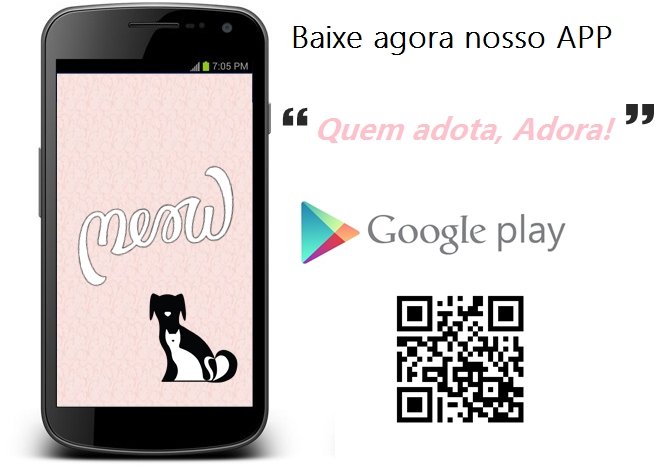
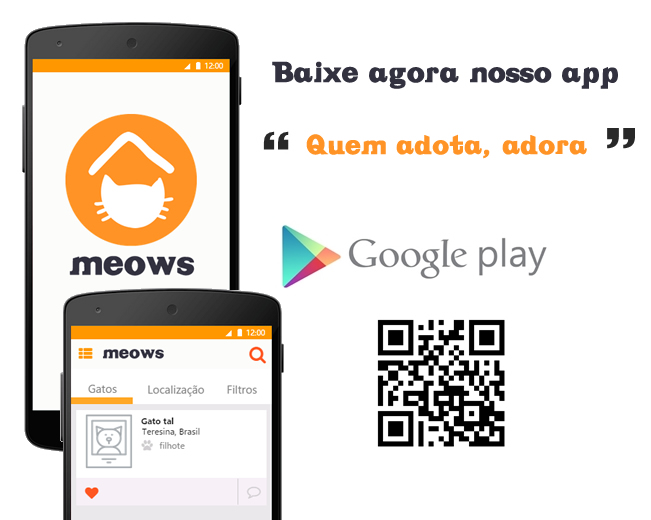
alterações e adiçao de imagens

diff --git a/Cadastro.html b/Cadastro.html
@@ -129,7 +129,7 @@
          <img src="img/cadastro.jpg" alt="">
           </div>
 		  <div class="aviso">
-		  <p><h3> Para cadastrar seus Animais Baixe o APP Weow!! </h3> </p>
+		  <p><h3> Para cadastrar seus Animais Baixe o APP Meow!! </h3> </p>
            </div>
           </div>
           

diff --git a/css/main.css b/css/main.css
@@ -190,7 +190,7 @@ a,
 /*COR ROSA PARA OS LINKS DA NAVBAR*/
 .navbar-custom .nav li > a:hover{
   cursor: url("../img/pata.cur"),default;
-  color: #F53FCF;
+  color: #FF9326;
 }
 
 
